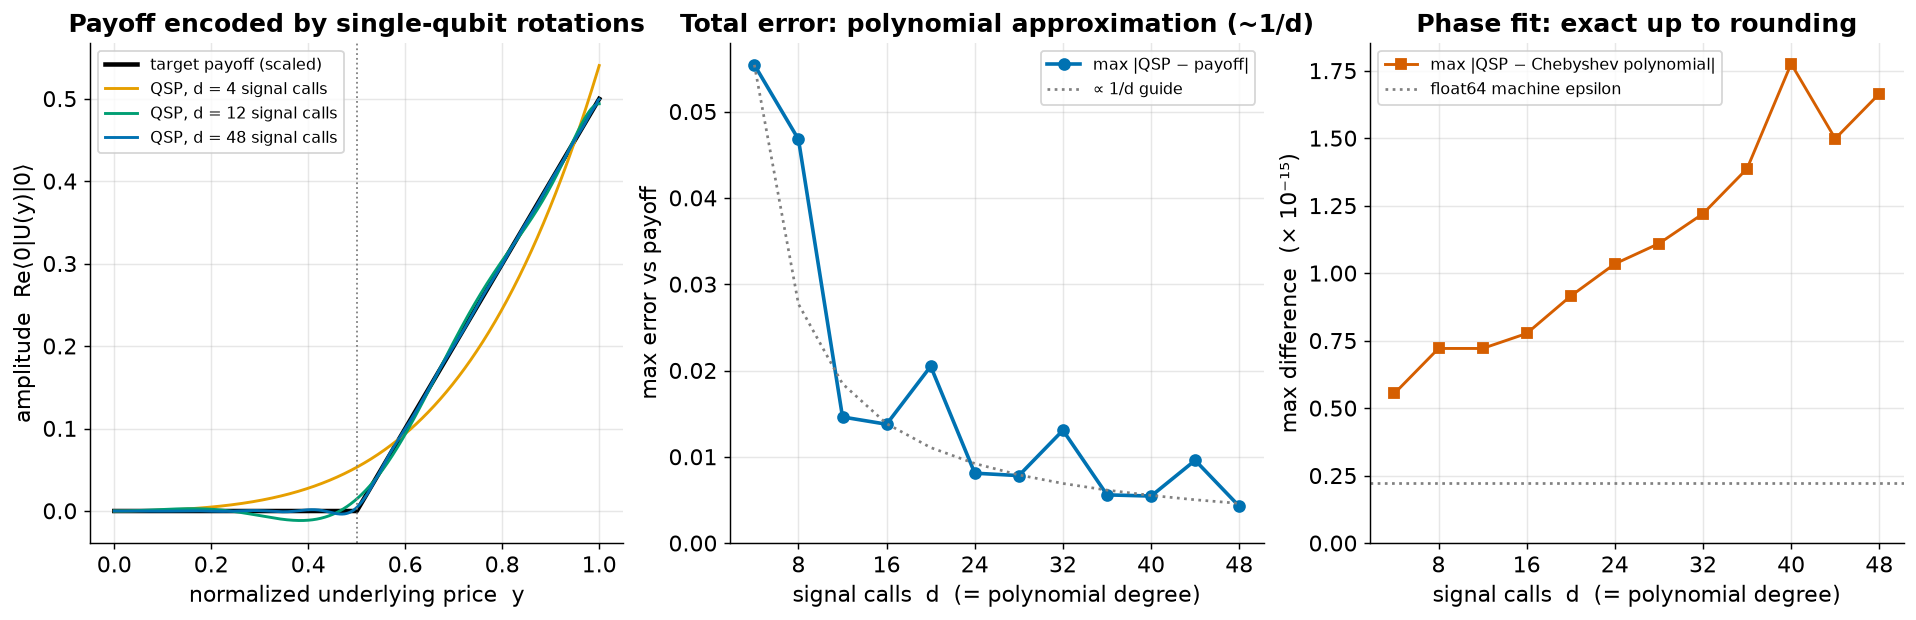
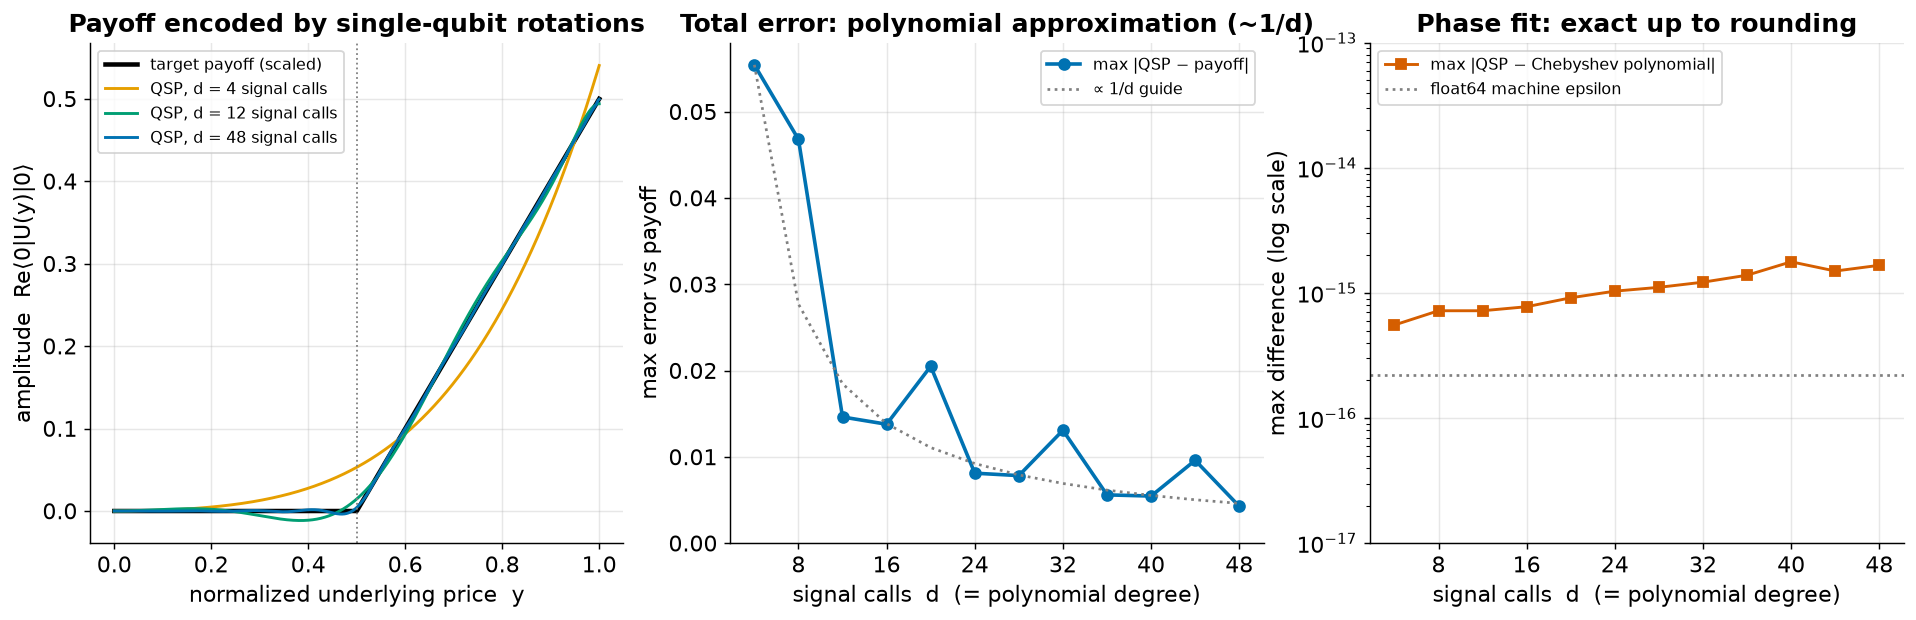
Demo F: phase-fit panel on a log scale

diff --git a/06_qsp_payoff/plot.py b/06_qsp_payoff/plot.py
@@ -2,7 +2,7 @@
 
   qsp_payoff.png : left   - target payoff vs QSP amplitude for a few degrees d
                    middle - max |QSP - payoff| vs signal calls d (linear)
-                   right  - max |QSP - Chebyshev| vs d, in 1e-15 (linear)
+                   right  - max |QSP - Chebyshev| vs d (log)
 Reads results/summary.json (run.py must be run first).
 """
 from __future__ import annotations
@@ -47,15 +47,15 @@ a2.set_ylabel("max error vs payoff")
 a2.set_title("Total error: polynomial approximation (~1/d)")
 a2.legend(fontsize=9, loc="upper right")
 
-# right: the quantum encoding itself -- vs the Chebyshev polynomial, in 1e-15
+# right: the quantum encoding itself -- vs the Chebyshev polynomial, log scale
 EPS = np.finfo(float).eps
-a3.plot(ds, fit / 1e-15, "s-", color=RED, lw=1.6,
-        label="max |QSP − Chebyshev polynomial|")
-a3.axhline(EPS / 1e-15, color="gray", ls=":", label="float64 machine epsilon")
-a3.set_ylim(0, None)
+a3.semilogy(ds, fit, "s-", color=RED, lw=1.6,
+            label="max |QSP − Chebyshev polynomial|")
+a3.axhline(EPS, color="gray", ls=":", label="float64 machine epsilon")
+a3.set_ylim(1e-17, 1e-13)
 a3.set_xticks(ds[1::2])
 a3.set_xlabel("signal calls  d  (= polynomial degree)")
-a3.set_ylabel("max difference  (× 10⁻¹⁵)")
+a3.set_ylabel("max difference (log scale)")
 a3.set_title("Phase fit: exact up to rounding")
 a3.legend(fontsize=9, loc="upper left")
 save(fig, os.path.join(HERE, "figures", "qsp_payoff.png"))
